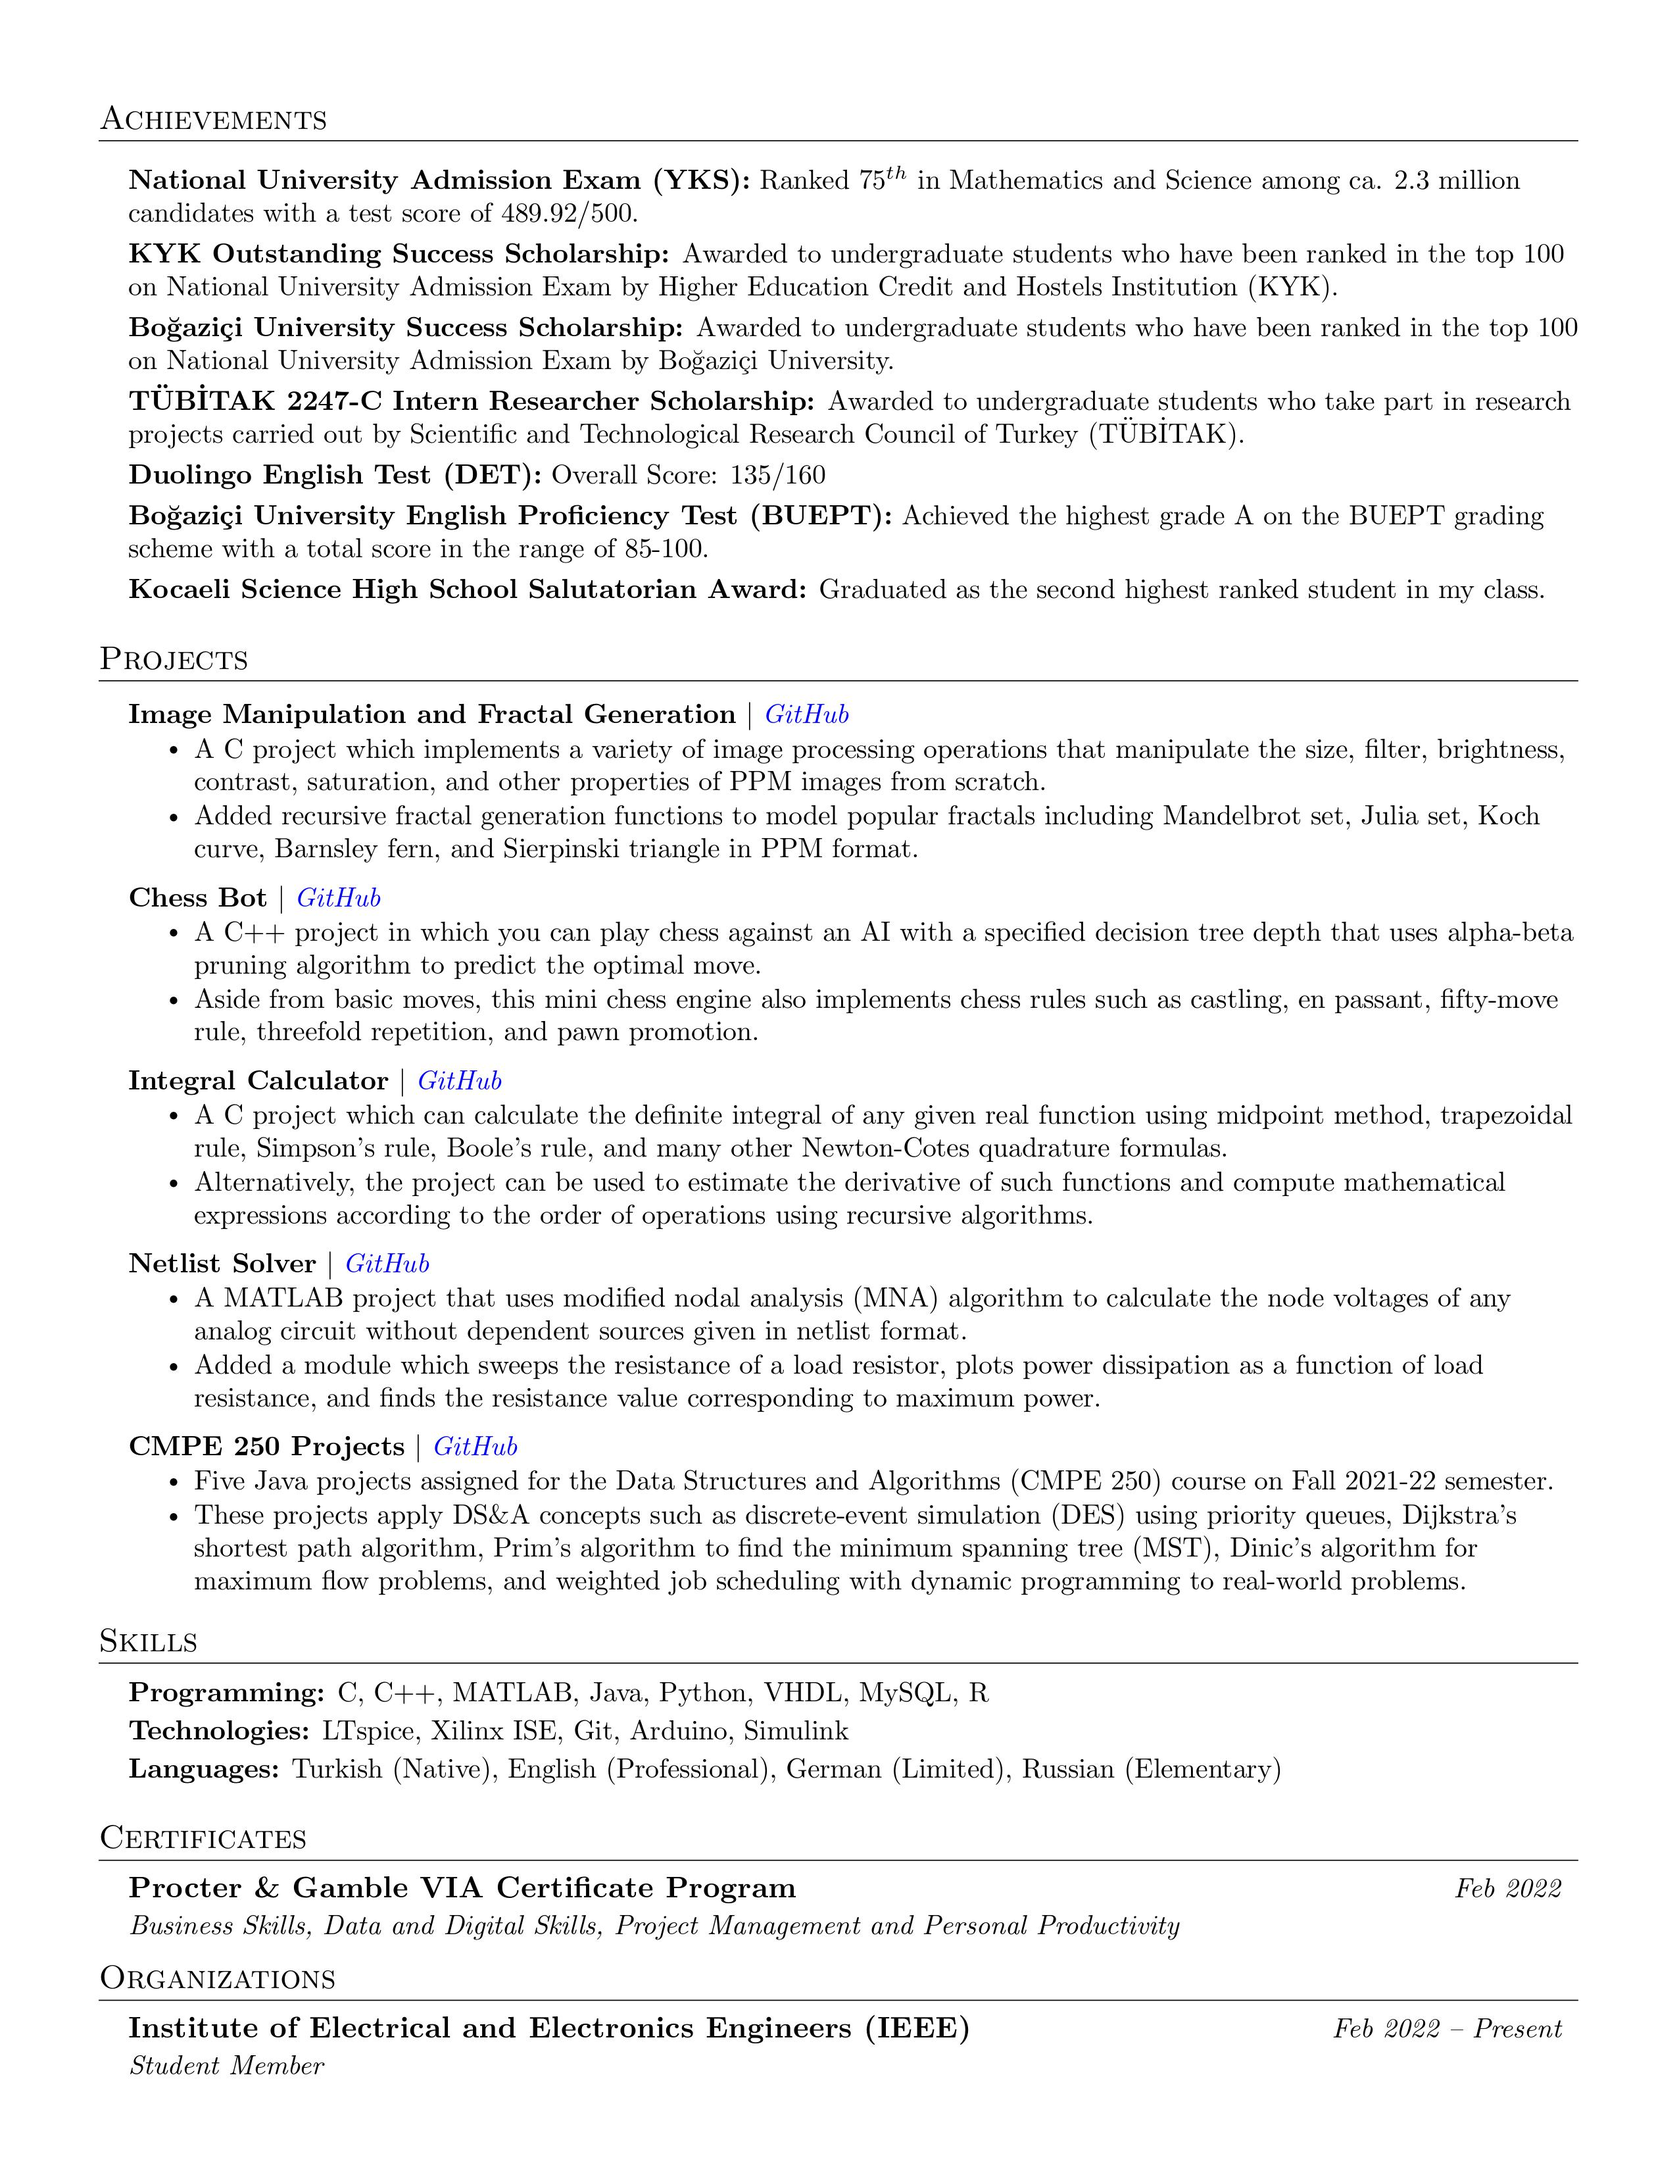
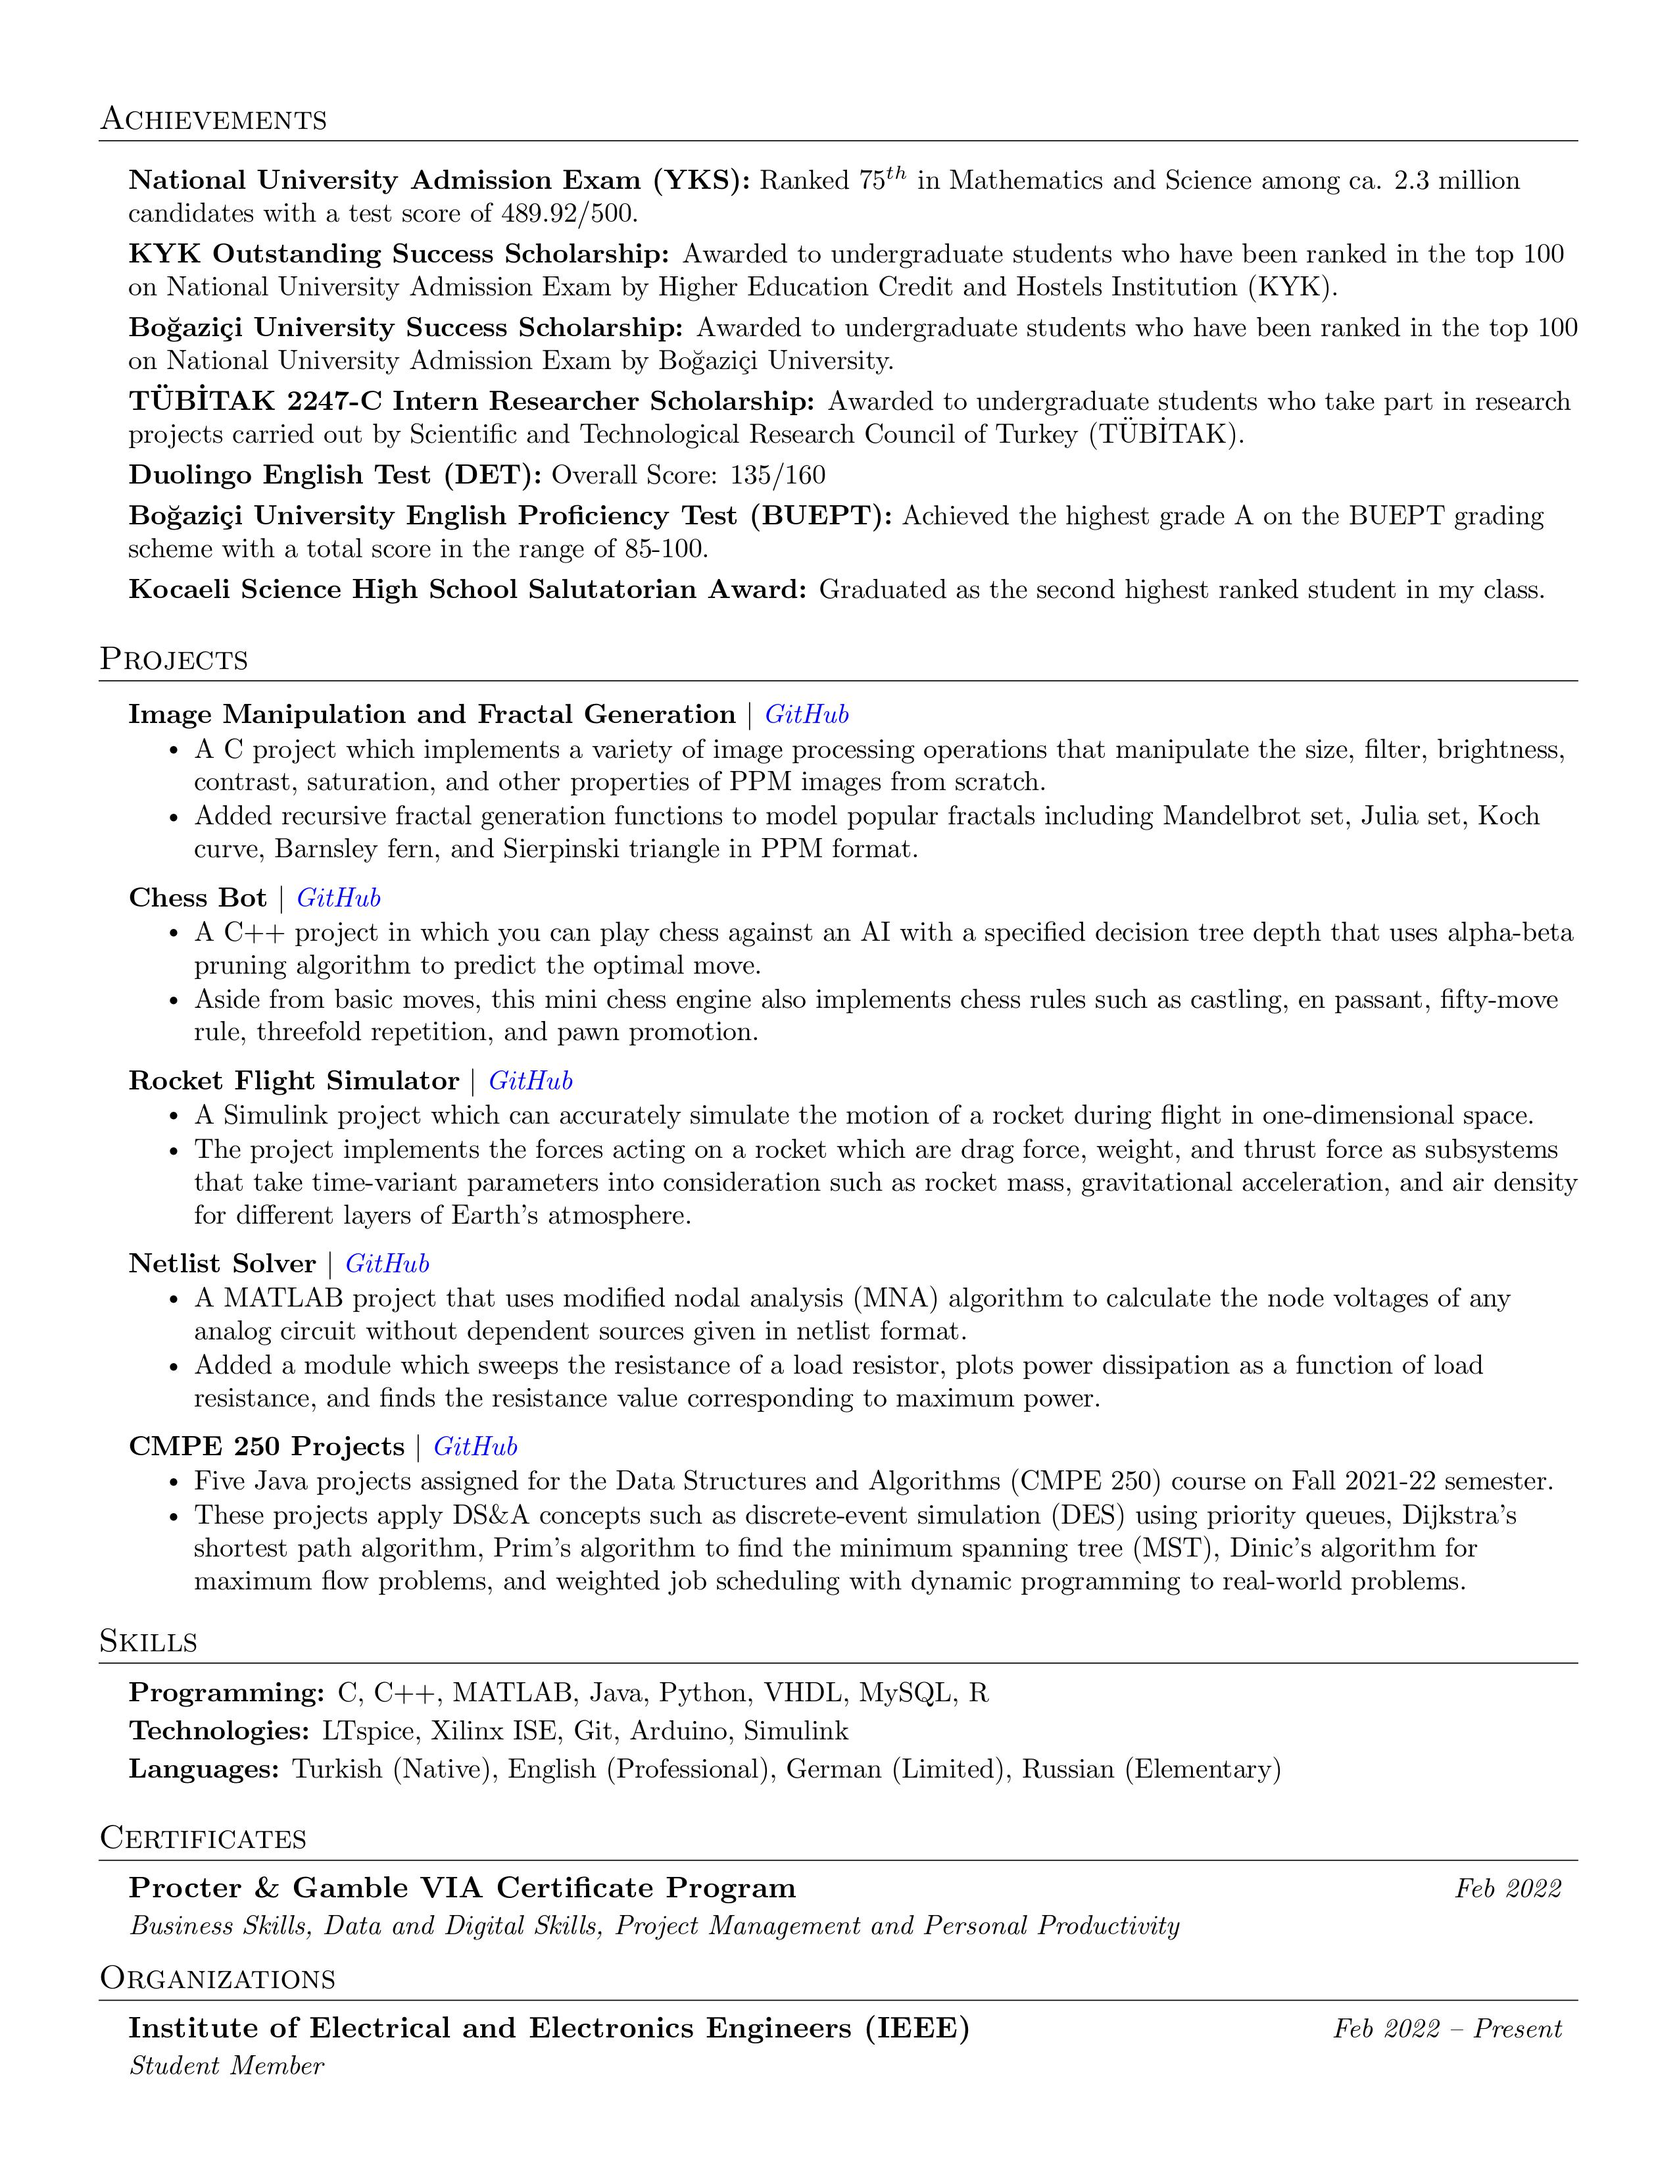
Updated CV

Changed region(s): [[0.1239, 0.4682, 0.9294, 0.5618]]

diff --git a/main.tex b/main.tex
@@ -247,10 +247,10 @@
           \resumeItemListEnd
       
       \resumeProjectHeading
-        {\textbf{Integral Calculator} $|$ \emph{\href{https://github.com/arasgungore/integral-calculator}{\color{blue}GitHub}}}{}
+        {\textbf{Rocket Flight Simulator} $|$ \emph{\href{https://github.com/arasgungore/rocket-flight-simulator}{\color{blue}GitHub}}}{}
           \resumeItemListStart
-            \resumeItem{A C project which can calculate the definite integral of any given real function using midpoint method, trapezoidal rule, Simpson's rule, Boole's rule, and many other Newton-Cotes quadrature formulas.}
-            \resumeItem{Alternatively, the project can be used to estimate the derivative of such functions and compute mathematical expressions according to the order of operations using recursive algorithms.}
+            \resumeItem{A Simulink project which can accurately simulate the motion of a rocket during flight in one-dimensional space.}
+            \resumeItem{The project implements the forces acting on a rocket which are drag force, weight, and thrust force as subsystems that take time-variant parameters into consideration such as rocket mass, gravitational acceleration, and air density for different layers of Earth's atmosphere.}
           \resumeItemListEnd
       
       \resumeProjectHeading
